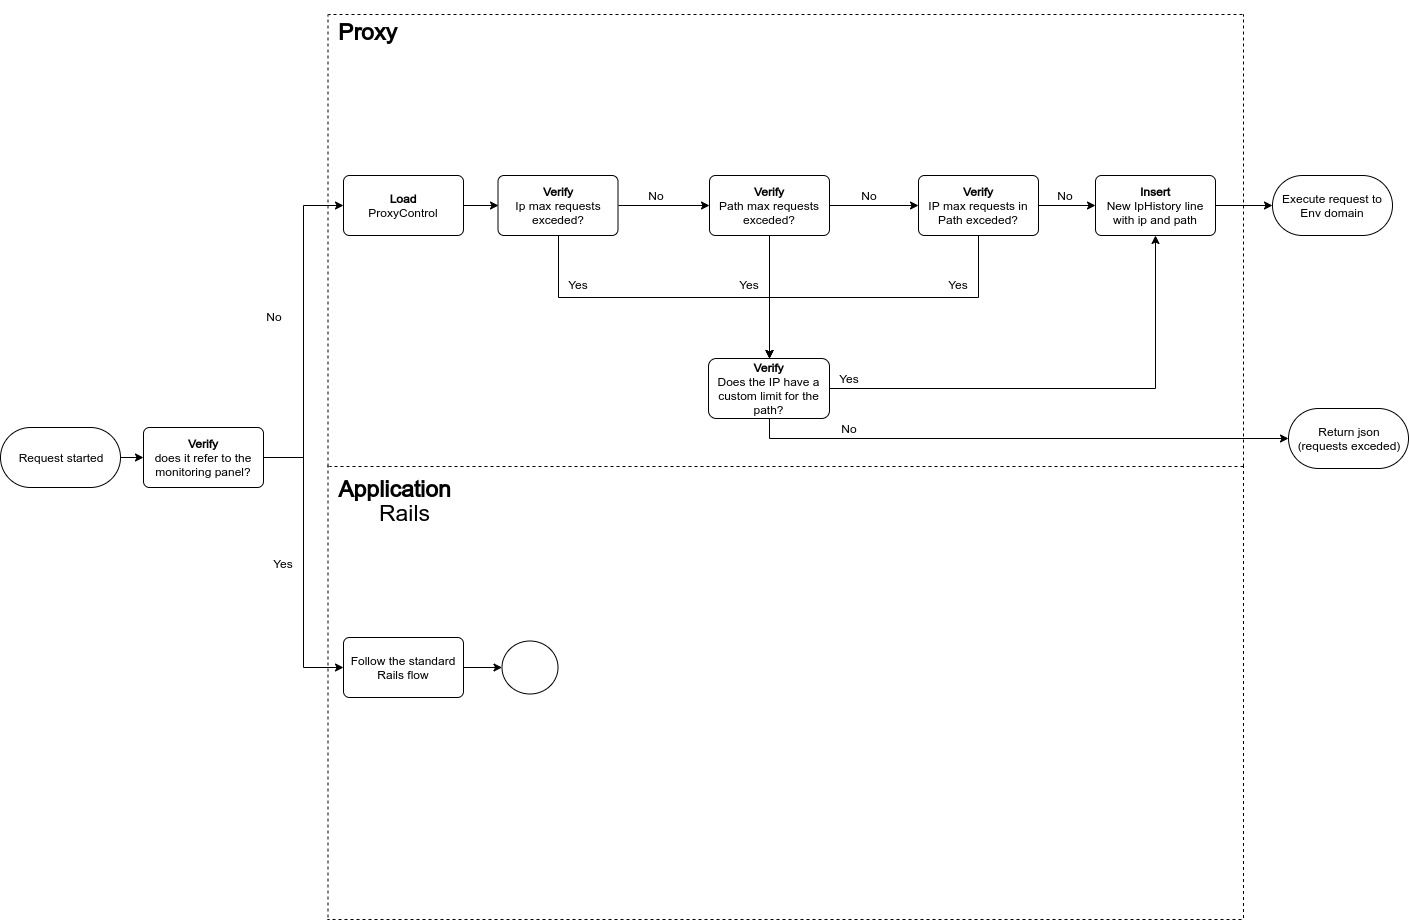
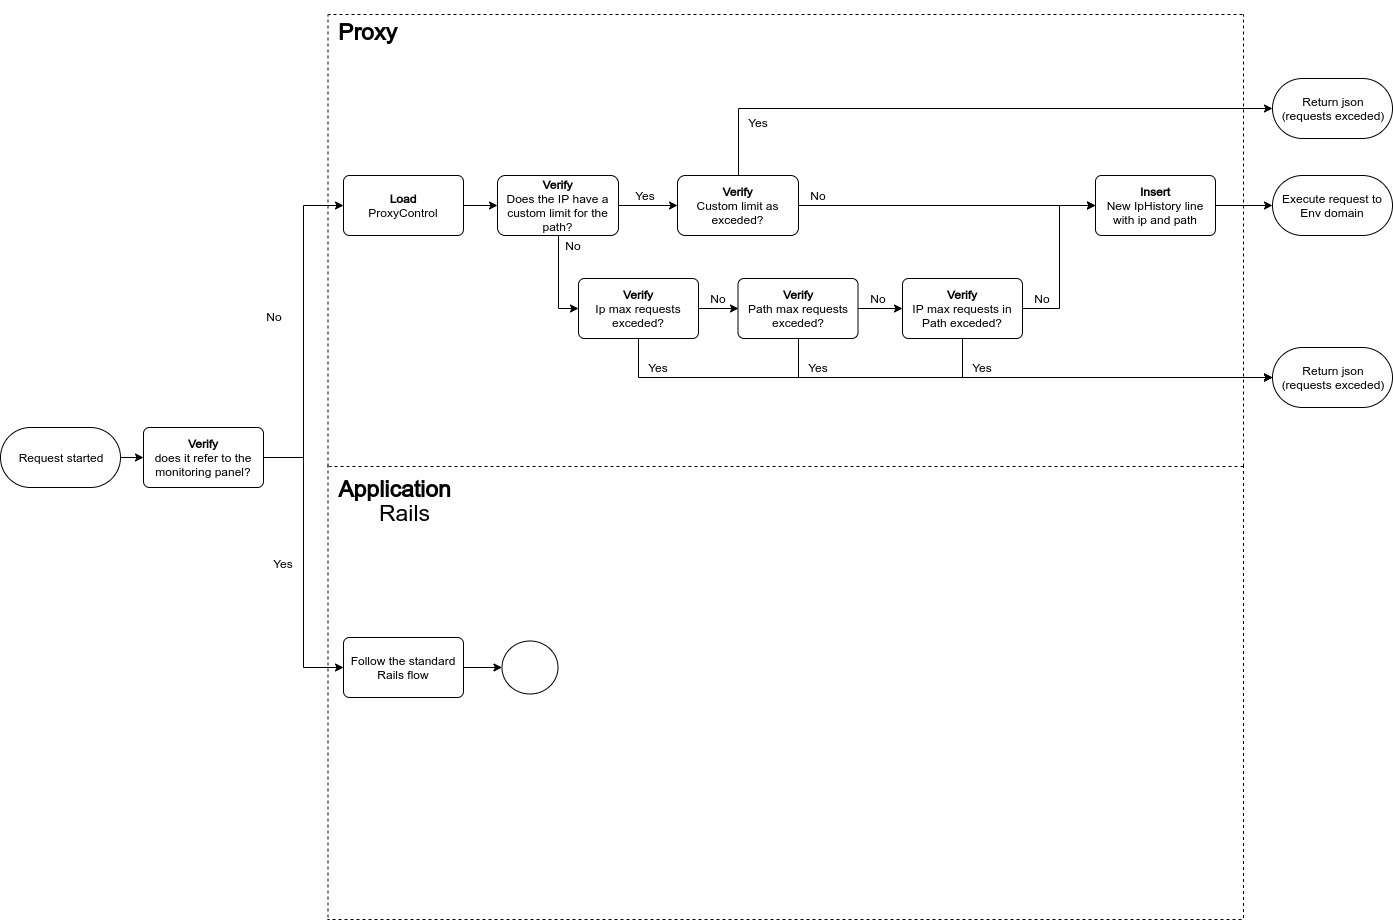
feat: Create custom rule flow

diff --git a/app/proxy/application_service_proxy.rb b/app/proxy/application_service_proxy.rb
@@ -2,30 +2,37 @@ class ApplicationServiceProxy < Rack::Proxy
   def perform_request(env)
     @request = Rack::Request.new(env)
 
-    return @app.call(env) if @request.path =~ %r{^/monitor} || @request.path =~ %r{^/assets}
+    return @app.call(env) if @request.path =~ %r{^/monitor} || @request.path =~ %r{^/assets} || @request.path =~ %r{^/admin}
 
-    path_exceded_limit = check_path_exceded_request_limits
-    exceded_limit = check_exceded_request_limits unless path_exceded_limit
-
-    if exceded_limit || path_exceded_limit
-      env['PATH_INFO'] = '/proxy/show'
-      env['ERROR_INFO'] = 'Você excedeu o limite de requests.'
-      @app.call(env)
+    if custom_rule.present?
+      return request_limit_exceeded(env) if count_ip_in_path_requests_today > custom_rule.max_requests_day
+      return request_limit_exceeded(env) if ip_in_path_requests_in_last_hour > custom_rule.max_requests_hour
     else
-      api = URI(ENV['SERVICE_URL'])
+      path_exceded_limit = check_path_exceded_request_limits
+      exceded_limit = check_exceded_request_limits unless path_exceded_limit
 
-      env["HTTP_HOST"] = api.host
-
-      # This is the only path that needs to be set currently on Rails 5 & greater
-      env['PATH_INFO'] = @request.path
-
-      # don't send your sites cookies to target service, unless it is a trusted internal service that can parse all your cookies
-      env['HTTP_COOKIE'] = ''
-
-      create_ip_history
-
-      super(env)
+      return request_limit_exceeded(env) if exceded_limit || path_exceded_limit
     end
+
+    api = URI(ENV['SERVICE_URL'])
+
+    env["HTTP_HOST"] = api.host
+
+    # This is the only path that needs to be set currently on Rails 5 & greater
+    env['PATH_INFO'] = @request.path
+
+    # don't send your sites cookies to target service, unless it is a trusted internal service that can parse all your cookies
+    env['HTTP_COOKIE'] = ''
+
+    create_ip_history
+
+    super(env)
+  end
+
+  def request_limit_exceeded(env)
+    env['PATH_INFO'] = '/proxy/show'
+    env['ERROR_INFO'] = 'You have exceeded the request limit.'
+    @app.call(env)
   end
 
   private
@@ -83,6 +90,16 @@ class ApplicationServiceProxy < Rack::Proxy
     path_history.filter{ |history| history.created_at >= Time.now - 1.hour }.size
   end
 
+  def count_ip_in_path_requests_today
+    return 0 unless ip_in_path_custom_rule
+    ip_in_path_custom_rule.count
+  end
+
+  def ip_in_path_requests_in_last_hour
+    return 0 unless ip_in_path_custom_rule
+    ip_in_path_custom_rule.filter{ |history| history.created_at >= Time.now - 1.hour }.size
+  end
+
   def create_ip_history
     IpHistory.create(
       ip: @request.ip,
@@ -90,12 +107,20 @@ class ApplicationServiceProxy < Rack::Proxy
     )
   end
 
+  def custom_rule
+    LimitIpPath.where(path: @request.path, ip: @request.ip)&.first
+  end
+
+  def ip_in_path_custom_rule
+    IpHistory.where(ip: @request.ip, path: @request.path, created_at: Time.now.beginning_of_day..Time.now)
+  end
+
   def path_history
-    @path_history ||= IpHistory.where(path: @request.path, created_at: Time.now.beginning_of_day..Time.now)
+    IpHistory.where(path: @request.path, created_at: Time.now.beginning_of_day..Time.now)
   end
 
   def ip_history
-    @ip_history ||= IpHistory.where(ip: @request.ip, created_at: Time.now.beginning_of_day..Time.now)
+    IpHistory.where(ip: @request.ip, created_at: Time.now.beginning_of_day..Time.now)
   end
 
   def proxy_control

diff --git a/app/controllers/limit_ip_paths_controller.rb b/app/controllers/limit_ip_paths_controller.rb
@@ -1,0 +1,69 @@
+class LimitIpPathsController < ApplicationController
+  before_action :set_limit_ip_path, only: %i[ show edit update destroy ]
+
+  # GET /limit_ip_paths or /limit_ip_paths.json
+  def index
+    @limit_ip_paths = LimitIpPath.all
+  end
+
+  # GET /limit_ip_paths/1 or /limit_ip_paths/1.json
+  def show
+  end
+
+  # GET /limit_ip_paths/new
+  def new
+    @limit_ip_path = LimitIpPath.new
+  end
+
+  # GET /limit_ip_paths/1/edit
+  def edit
+  end
+
+  # POST /limit_ip_paths or /limit_ip_paths.json
+  def create
+    @limit_ip_path = LimitIpPath.new(limit_ip_path_params)
+
+    respond_to do |format|
+      if @limit_ip_path.save
+        format.html { redirect_to @limit_ip_path, notice: "Limit ip path was successfully created." }
+        format.json { render :show, status: :created, location: @limit_ip_path }
+      else
+        format.html { render :new, status: :unprocessable_entity }
+        format.json { render json: @limit_ip_path.errors, status: :unprocessable_entity }
+      end
+    end
+  end
+
+  # PATCH/PUT /limit_ip_paths/1 or /limit_ip_paths/1.json
+  def update
+    respond_to do |format|
+      if @limit_ip_path.update(limit_ip_path_params)
+        format.html { redirect_to @limit_ip_path, notice: "Limit ip path was successfully updated." }
+        format.json { render :show, status: :ok, location: @limit_ip_path }
+      else
+        format.html { render :edit, status: :unprocessable_entity }
+        format.json { render json: @limit_ip_path.errors, status: :unprocessable_entity }
+      end
+    end
+  end
+
+  # DELETE /limit_ip_paths/1 or /limit_ip_paths/1.json
+  def destroy
+    @limit_ip_path.destroy
+    respond_to do |format|
+      format.html { redirect_to limit_ip_paths_url, notice: "Limit ip path was successfully destroyed." }
+      format.json { head :no_content }
+    end
+  end
+
+  private
+    # Use callbacks to share common setup or constraints between actions.
+    def set_limit_ip_path
+      @limit_ip_path = LimitIpPath.find(params[:id])
+    end
+
+    # Only allow a list of trusted parameters through.
+    def limit_ip_path_params
+      params.require(:limit_ip_path).permit(:ip, :path, :max_requests_hour, :max_requests_day)
+    end
+end

diff --git a/test/controllers/limit_ip_paths_controller_test.rb b/test/controllers/limit_ip_paths_controller_test.rb
@@ -1,0 +1,48 @@
+require "test_helper"
+
+class LimitIpPathsControllerTest < ActionDispatch::IntegrationTest
+  setup do
+    @limit_ip_path = limit_ip_paths(:one)
+  end
+
+  test "should get index" do
+    get limit_ip_paths_url
+    assert_response :success
+  end
+
+  test "should get new" do
+    get new_limit_ip_path_url
+    assert_response :success
+  end
+
+  test "should create limit_ip_path" do
+    assert_difference('LimitIpPath.count') do
+      post limit_ip_paths_url, params: { limit_ip_path: { ip: @limit_ip_path.ip, max_requests_day: @limit_ip_path.max_requests_day, max_requests_hour: @limit_ip_path.max_requests_hour, path: @limit_ip_path.path } }
+    end
+
+    assert_redirected_to limit_ip_path_url(LimitIpPath.last)
+  end
+
+  test "should show limit_ip_path" do
+    get limit_ip_path_url(@limit_ip_path)
+    assert_response :success
+  end
+
+  test "should get edit" do
+    get edit_limit_ip_path_url(@limit_ip_path)
+    assert_response :success
+  end
+
+  test "should update limit_ip_path" do
+    patch limit_ip_path_url(@limit_ip_path), params: { limit_ip_path: { ip: @limit_ip_path.ip, max_requests_day: @limit_ip_path.max_requests_day, max_requests_hour: @limit_ip_path.max_requests_hour, path: @limit_ip_path.path } }
+    assert_redirected_to limit_ip_path_url(@limit_ip_path)
+  end
+
+  test "should destroy limit_ip_path" do
+    assert_difference('LimitIpPath.count', -1) do
+      delete limit_ip_path_url(@limit_ip_path)
+    end
+
+    assert_redirected_to limit_ip_paths_url
+  end
+end

diff --git a/test/system/limit_ip_paths_test.rb b/test/system/limit_ip_paths_test.rb
@@ -1,0 +1,49 @@
+require "application_system_test_case"
+
+class LimitIpPathsTest < ApplicationSystemTestCase
+  setup do
+    @limit_ip_path = limit_ip_paths(:one)
+  end
+
+  test "visiting the index" do
+    visit limit_ip_paths_url
+    assert_selector "h1", text: "Limit Ip Paths"
+  end
+
+  test "creating a Limit ip path" do
+    visit limit_ip_paths_url
+    click_on "New Limit Ip Path"
+
+    fill_in "Ip", with: @limit_ip_path.ip
+    fill_in "Max requests day", with: @limit_ip_path.max_requests_day
+    fill_in "Max requests hour", with: @limit_ip_path.max_requests_hour
+    fill_in "Path", with: @limit_ip_path.path
+    click_on "Create Limit ip path"
+
+    assert_text "Limit ip path was successfully created"
+    click_on "Back"
+  end
+
+  test "updating a Limit ip path" do
+    visit limit_ip_paths_url
+    click_on "Edit", match: :first
+
+    fill_in "Ip", with: @limit_ip_path.ip
+    fill_in "Max requests day", with: @limit_ip_path.max_requests_day
+    fill_in "Max requests hour", with: @limit_ip_path.max_requests_hour
+    fill_in "Path", with: @limit_ip_path.path
+    click_on "Update Limit ip path"
+
+    assert_text "Limit ip path was successfully updated"
+    click_on "Back"
+  end
+
+  test "destroying a Limit ip path" do
+    visit limit_ip_paths_url
+    page.accept_confirm do
+      click_on "Destroy", match: :first
+    end
+
+    assert_text "Limit ip path was successfully destroyed"
+  end
+end

diff --git a/config/routes.rb b/config/routes.rb
@@ -1,5 +1,10 @@
 Rails.application.routes.draw do
-  get 'monitor/index'
+  resources :limit_ip_paths, path: 'admin'
+  
+  namespace 'monitor' do
+    get '/', action: :index
+  end
+  
   get 'proxy/show'
   # For details on the DSL available within this file, see https://guides.rubyonrails.org/routing.html
 end

diff --git a/app/helpers/limit_ip_paths_helper.rb b/app/helpers/limit_ip_paths_helper.rb
@@ -1,0 +1,2 @@
+module LimitIpPathsHelper
+end
